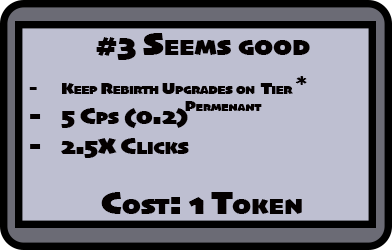
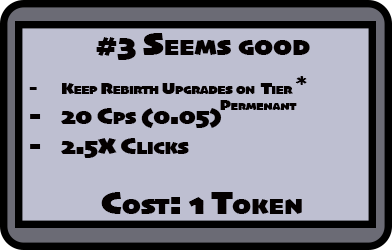
Part 24: Slightly Boosted Xp Multipler Incressed XP Needed To Level up Double XP from Auto CLicks Better Auto Clicker

Changed region(s): [[0.1531, 0.392, 0.7653, 0.532]]

diff --git a/main.py b/main.py
@@ -461,7 +461,7 @@ while running:
 ################################################################################
 #    Xp system
 ################################################################################
-    Xp_needed =  int(15* (1.4 ** levels ))
+    Xp_needed =  int(15* (1.41 ** levels ))
     Xp_needed_sum = amount_sum(Xp_needed)
 
     total_xp_for_past_levels = 0
@@ -474,7 +474,7 @@ while running:
         levels += 1
         Xp_Current_Level = 0
     if current_tier >= 3:
-        Click_Xp_Mult = 1.1 ** levels
+        Click_Xp_Mult = 1.15 ** levels
         Xp_AR = font1.render("Level " + str(levels) + "\n(" +str(Xp_Current_Level_sum) + "/" + str(Xp_needed_sum) + ")", True, (0, 0, 0))
     if current_tier <= 2:
         Xp_AR = font2.render("Unlock At T3",True, (0, 0, 0))
@@ -701,13 +701,13 @@ while running:
 #
     if Auto_Click_Speed == 2:
         if ascension_Auto_Click_Speed == 1 and Last_Speed != 3:
-            pygame.time.set_timer(AUTOClick_EVENT, 200)
+            pygame.time.set_timer(AUTOClick_EVENT, 50)
             Last_Speed = 3
         elif ascension_Auto_Click_Speed == 0 and Last_Speed != 2:
-            pygame.time.set_timer(AUTOClick_EVENT,500)
+            pygame.time.set_timer(AUTOClick_EVENT,100)
             Last_Speed = 2
     elif Auto_Click_Speed == 1 and Last_Speed != 1:
-        pygame.time.set_timer(AUTOClick_EVENT, 1000)
+        pygame.time.set_timer(AUTOClick_EVENT, 333)
         Last_Speed = 1
 
 #####################
@@ -787,7 +787,7 @@ while running:
         if event.type == AUTOClick_EVENT:
             if current_tier >= 3:
                     clicks += CPC
-                    Xp += 0.25
+                    Xp += 0.5
 
         if event.type == pygame.QUIT:
             running = False

diff --git a/Tier.py b/Tier.py
@@ -30,7 +30,7 @@ def tier_info (Tier):
          text = " \n Tier 2: Cost: (" + tier_cost(Tier,"Suffix") + ")\n - Unlock Click Upgrade 4 \n - 2x Clicks \n - 1.5x Rebirths \n - 1.5x Faster Button Cooldown"
          return text
     elif Tier == 2:
-         text = " \n Tier 3: Cost: (" + tier_cost(Tier,"Suffix") + ") \n - Unlock Xp (1 / Click) (25% on Auto Click) \n - Auto Click (Base = 1 cps) \n - 2x Clicks \n - 1.5x Rebirths "
+         text = " \n Tier 3: Cost: (" + tier_cost(Tier,"Suffix") + ") \n - Unlock Xp (1 / Click) (50% on Auto Click) \n - Auto Click (Base = 3 cps) \n - 2x Clicks \n - 1.5x Rebirths "
          return text
     elif Tier == 3:
          text = " \n Tier 4: Cost: (" + tier_cost(Tier,"Suffix") + ") \n - Unlock Click Upgrade 5 \n - 5x Clicks \n - 2x Rebirths \n - 1.25x Faster Button Cooldown"
@@ -45,7 +45,7 @@ def tier_info (Tier):
          text = " \n Tier 7: Cost: (" + tier_cost(Tier,"Suffix") + ") \n - Powerful Clicks Effect: +0.2x / Cap: +10 \n (+ Price Increase) \n - x1.25 Faster Button Cooldown"
          return text
     elif Tier == 7:
-         text = " \n Tier 8: Cost: (" + tier_cost(Tier,"Suffix") + ") \n - 4x Xp \n Power Rebirth: +10 Max \n More Rebirths +5 Max \n - 1.01^ Clicks \n - 2x Faster Autoclicker. "
+         text = " \n Tier 8: Cost: (" + tier_cost(Tier,"Suffix") + ") \n - 4x Xp \n Power Rebirth: +10 Max \n More Rebirths +5 Max \n - 1.01^ Clicks \n - 3.33x Faster Autoclicker. "
          return text
     elif Tier == 8:
          text = " \n Tier 9: Cost: (" + tier_cost(Tier,"Suffix") + ") \n - Base Power Effect: x5 / Cap: +80  \n (+ Price Increase) \n - 1.01^ - 1.02^ Clicks"

diff --git a/README.md b/README.md
@@ -30,9 +30,13 @@ New Features:
 QOL Features:
 ---
 - Buy Max For Rebirth Upgrades
-- Auto Rebirth now gives 10% instead of 1%
 - Game now Shows a saving icon when saving
-
+- **Better Automation**
+  - Auto Rebirth now gives 10% instead of 1%
+  - Way Faster Auto Click Speed 
+    - Base (1cps -> 3cps))
+    - Tier 8 (2cps -> 10cps))
+    - #3 (Tree) (5cps -> 20cps))
 ---
 Balancing:
 ---
@@ -46,6 +50,11 @@ Balancing:
 - **Upgrades Changes**
   - Boosted Xp Mult from CU5 and RU3 (1.1 -> 1.15)
   - Change Price balancing for CU3
+
+- **Xp Changes**
+    - Xp Multi 1.1 -> 1.15
+    - Slightly Increased Xp Needed to Level Up
+    - Doubled Auto Click Xp Gain
 
 ----
 Bug Fixes:
@@ -62,17 +71,17 @@ Other:
 
 
 -------------
-More Planed Updates (if I Continue to Update the game):
+More (Content) Planed Updates (if I Continue to Update the game):
 --------
-**Version 5.0**:
+**Update 1**:
 - The Sacrifice Upgrade Tree (#7 -> #12)
 - Tiers 13 - 15
 
-**Version 6.0**:
+**Update 2**:
 - Recreation Tiers 1 -> 5
 - Application Version of the Game
 
-**Version 7.0**:
+**Update 3**:
 - Recreation Tiers 6 -> 10
 - Final Reset (End of the game)
 
